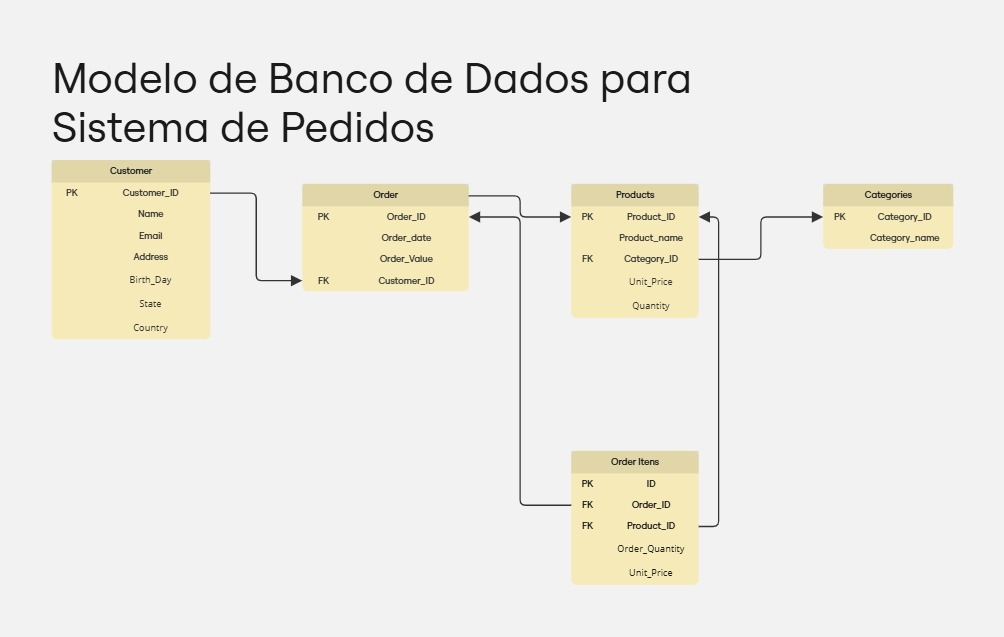
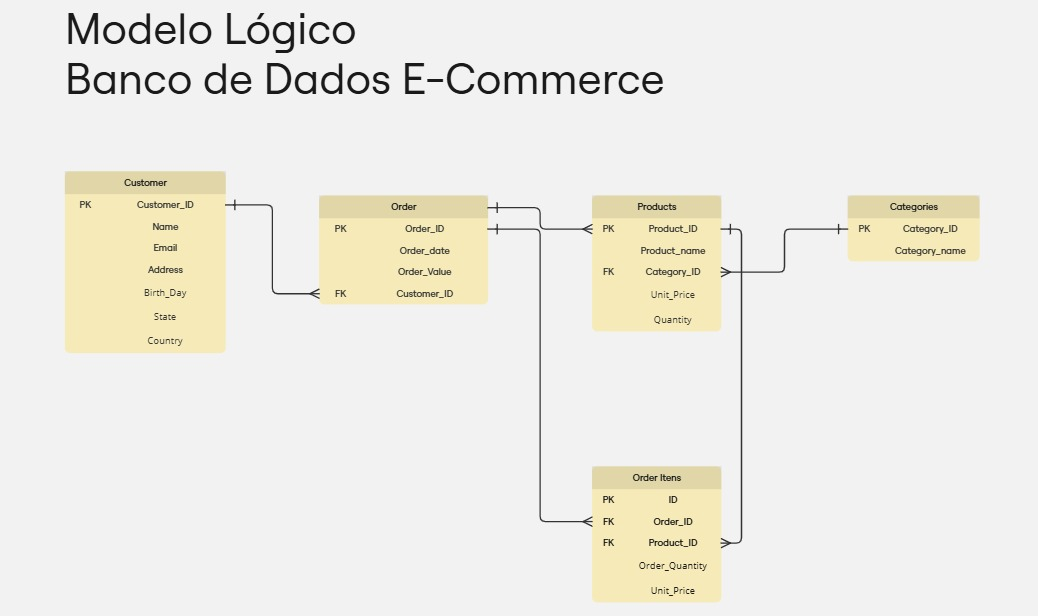
Update Data Modeling documentation

Changed region(s): [[0.0309, 0.0, 0.9572, 0.987]]

diff --git a/docs/database-design.md b/docs/database-design.md
@@ -1,68 +1,120 @@
-# Modelo de Banco de Dados para Sistema de Pedidos
+# Documentação da Modelagem de Dados
 
-Este documento descreve a modelagem do banco de dados para um sistema de pedidos, incluindo as tabelas, atributos e relacionamentos.
+## 1. Definição do Modelo de Dados
 
-## Diagrama ER
+**Objetivo:**
+Criar um modelo visual das tabelas, colunas e relacionamentos do banco de dados.
 
-![Diagrama ER](/img/diagramaER.jpg)
+**Descrição:**
+Utilizando o Miro, foi criado um diagrama detalhando as seguintes tabelas:
 
-## Tabelas
+- **Customer:** Informações dos clientes.
+- **Products:** Informações sobre os produtos.
+- **Order:** Registro das vendas realizadas.
+- **Categories:** Informações sobre as categorias dos produtos.
+- **Order_Items:** Informações sobre itens do pedido.
 
-### Customer (Cliente)
+**Relacionamentos:**
 
-| Atributo       | Tipo de Dado | Chave Primária | Chave Estrangeira | Descrição                                  |
-|----------------|--------------|----------------|-------------------|--------------------------------------------|
-| Customer_ID    | Numérico     | Sim            | Não               | Identificador único do cliente             |
-| Name           | Texto        | Não            | Não               | Nome completo do cliente                   |
-| Email          | Texto        | Não            | Não               | Endereço de e-mail do cliente              |
-| Address        | Texto        | Não            | Não               | Endereço físico do cliente                  |
-| Birth_Day      | Data         | Não            | Não               | Data de nascimento do cliente              |
-| State          | Texto        | Não            | Não               | Estado onde o cliente reside                |
+- **Customer para Order:** Um cliente pode ter muitos pedidos.
+- **Order para Order Items:** Um pedido pode ter muitos itens.
+- **Products para Order Items:** Um produto pode aparecer em muitos itens de pedido.
+- **Categories para Products:** Uma categoria pode ter muitos produtos.
 
-### Order (Pedido)
+**Link para o Diagrama no Miro:**
 
-| Atributo       | Tipo de Dado | Chave Primária | Chave Estrangeira | Descrição                                  |
-|----------------|--------------|----------------|-------------------|--------------------------------------------|
-| Order_ID       | Numérico     | Sim            | Não               | Identificador único do pedido              |
-| Order_date     | Data/Hora    | Não            | Não               | Data e hora em que o pedido foi feito      |
-| Order_Value    | Decimal      | Não            | Não               | Valor total do pedido                      |
-| Customer_ID    | Numérico     | Não            | Sim               | ID do cliente que fez o pedido (FK)        |
+**https://miro.com/app/board/uXjVIUVfm9c=/**
 
-### Products (Produtos)
+**Imagem do Diagrama:**
+![Inserir imagem do diagrama criado no Miro](/img/modelo-conceitual.jpg)
 
-| Atributo       | Tipo de Dado | Chave Primária | Chave Estrangeira | Descrição                                  |
-|----------------|--------------|----------------|-------------------|--------------------------------------------|
-| Product_ID     | Numérico     | Sim            | Não               | Identificador único do produto             |
-| Product_name   | Texto        | Não            | Não               | Nome do produto                            |
-| Category_ID    | Numérico     | Não            | Sim               | ID da categoria do produto (FK)           |
-| Unit_Price          | Decimal      | Não            | Não               | Preço unitário do produto                  |
-| Quantity       | Numérico     | Não            | Não               | Quantidade em estoque do produto           |
+## 2. Definição dos Tipos de Dados
 
-### Categories (Categorias)
+**Objetivo:**
+Especificar os tipos de dados para cada coluna das tabelas.
+
+**Tabela de Tipos de Dados:**
+
+***Customer*** (Cliente)
 
 | Atributo       | Tipo de Dado | Chave Primária | Chave Estrangeira | Descrição                                  |
 |----------------|--------------|----------------|-------------------|--------------------------------------------|
-| Category_ID    | Numérico     | Sim            | Não               | Identificador único da categoria           |
-| Category_name  | Texto        | Não            | Não               | Nome da categoria                          |
+| Customer_ID    | Integer      | Sim            | Não               | Identificador único do cliente             |
+| Name           | Chacacter    | Não            | Não               | Nome completo do cliente                   |
+| Email          | Chacacter    | Não            | Não               | Endereço de e-mail do cliente              |
+| Address        | Chacacter    | Não            | Não               | Endereço físico do cliente                 |
+| Birth_Day      | Date         | Não            | Não               | Data de nascimento do cliente              |
+| State          | Chacacter    | Não            | Não               | Estado onde o cliente reside               |
+| Coutry         | Chacacter    | Não            | Não               | País onde o cliente reside                 |
 
-### Order_Items (Itens do Pedido)
+***Order*** (Pedido)
 
 | Atributo       | Tipo de Dado | Chave Primária | Chave Estrangeira | Descrição                                  |
 |----------------|--------------|----------------|-------------------|--------------------------------------------|
-| ID             | Numérico     | Sim            | Não               | Identificador único do item do pedido      |
-| Order_ID       | Numérico     | Não            | Sim               | ID do pedido ao qual o item pertence (FK)  |
-| Product_ID     | Numérico     | Não            | Sim               | ID do produto do item (FK)                |
-| Order_Quantity | Numérico     | Não            | Não               | Quantidade do produto no pedido            |
-| Unit_Price     | Decimal      | Não            | Não               | Preço unitário do produto no pedido        |
+| Order_ID       | Integer      | Sim            | Não               | Identificador único do pedido              |
+| Order_date     | Datetime     | Não            | Não               | Data e hora em que o pedido foi feito      |
+| Order_Value    | Real         | Não            | Não               | Valor total do pedido                      |
+| Customer_ID    | Integer      | Não            | Sim               | ID do cliente que fez o pedido (FK)        |
 
-## Relacionamentos
+***Products*** (Produtos)
 
-* **Customer para Order:** Um cliente pode ter muitos pedidos.
-* **Order para Order Items:** Um pedido pode ter muitos itens.
-* **Products para Order Items:** Um produto pode aparecer em muitos itens de pedido.
-* **Categories para Products:** Uma categoria pode ter muitos produtos.
+| Atributo       | Tipo de Dado | Chave Primária | Chave Estrangeira | Descrição                                  |
+|----------------|--------------|----------------|-------------------|--------------------------------------------|
+| Product_ID     | Integer      | Sim            | Não               | Identificador único do produto             |
+| Product_name   | Chacacter    | Não            | Não               | Nome do produto                            |
+| Category_ID    | Integer      | Não            | Sim               | ID da categoria do produto (FK)           |
+| Unit_Price     | Real         | Não            | Não               | Preço unitário do produto                  |
+| Quantity       | Integer      | Não            | Não               | Quantidade em estoque do produto           |
 
-## Observações
+***Categories*** (Categorias)
 
-* Os tipos de dados podem variar dependendo do sistema de gerenciamento de banco de dados (SGBD) utilizado.
-* As chaves estrangeiras (FK) garantem a integridade referencial entre as tabelas.
+| Atributo       | Tipo de Dado | Chave Primária | Chave Estrangeira | Descrição                                  |
+|----------------|--------------|----------------|-------------------|--------------------------------------------|
+| Category_ID    | Integer      | Sim            | Não               | Identificador único da categoria           |
+| Category_name  | Chacacter    | Não            | Não               | Nome da categoria                          |
+
+***Order_Items*** (Itens do Pedido)
+
+| Atributo       | Tipo de Dado | Chave Primária | Chave Estrangeira | Descrição                                  |
+|----------------|--------------|----------------|-------------------|--------------------------------------------|
+| ID             | Integer     | Sim            | Não               | Identificador único do item do pedido      |
+| Order_ID       | Integer     | Não            | Sim               | ID do pedido ao qual o item pertence (FK)  |
+| Product_ID     | Integer     | Não            | Sim               | ID do produto do item (FK)                |
+| Order_Quantity | Integer     | Não            | Não               | Quantidade do produto no pedido            |
+| Unit_Price     | Real         | Não            | Não               | Preço unitário do produto no pedido        |
+
+## 3. Definição das Chaves Primárias e Estrangeiras
+
+**Objetivo:**
+Garantir a integridade do banco de dados definindo as chaves primárias e estrangeiras.
+
+**Chaves Primárias:**
+
+- **Customer:** Customer_ID
+- **Products:** Product_ID
+- **Order:** Order_ID
+- **Categories:** Category_ID
+- **Order_Items:** ID
+
+**Chaves Estrangeiras:**
+
+- **Products:** Category_ID (referencia Categories.Category_ID)
+- **Order:** Customer_ID (referencia Customer.Customer_ID)
+- **Order_Items:** Order_ID (referencia Order.Order_ID)
+                    Product_ID (referencia Products.Product_ID)
+
+## 4. Criação do Diagrama ER (Entidade-Relacionamento)
+
+**Objetivo:**
+Criar um diagrama visual que represente a estrutura do banco de dados e os relacionamentos entre as tabelas.
+
+**Ferramenta Utilizada:**
+
+![Miro](https://img.shields.io/badge/Miro-050038.svg?style=for-the-badge&logo=Miro&logoColor=yellow)
+
+**Descrição:**
+O diagrama ER mostra as tabelas como entidades e os relacionamentos entre elas.
+
+**Imagem do Diagrama ER:**
+
+![Inserir imagem do diagrama criado no Miro](/img/diagramaER.jpg)
